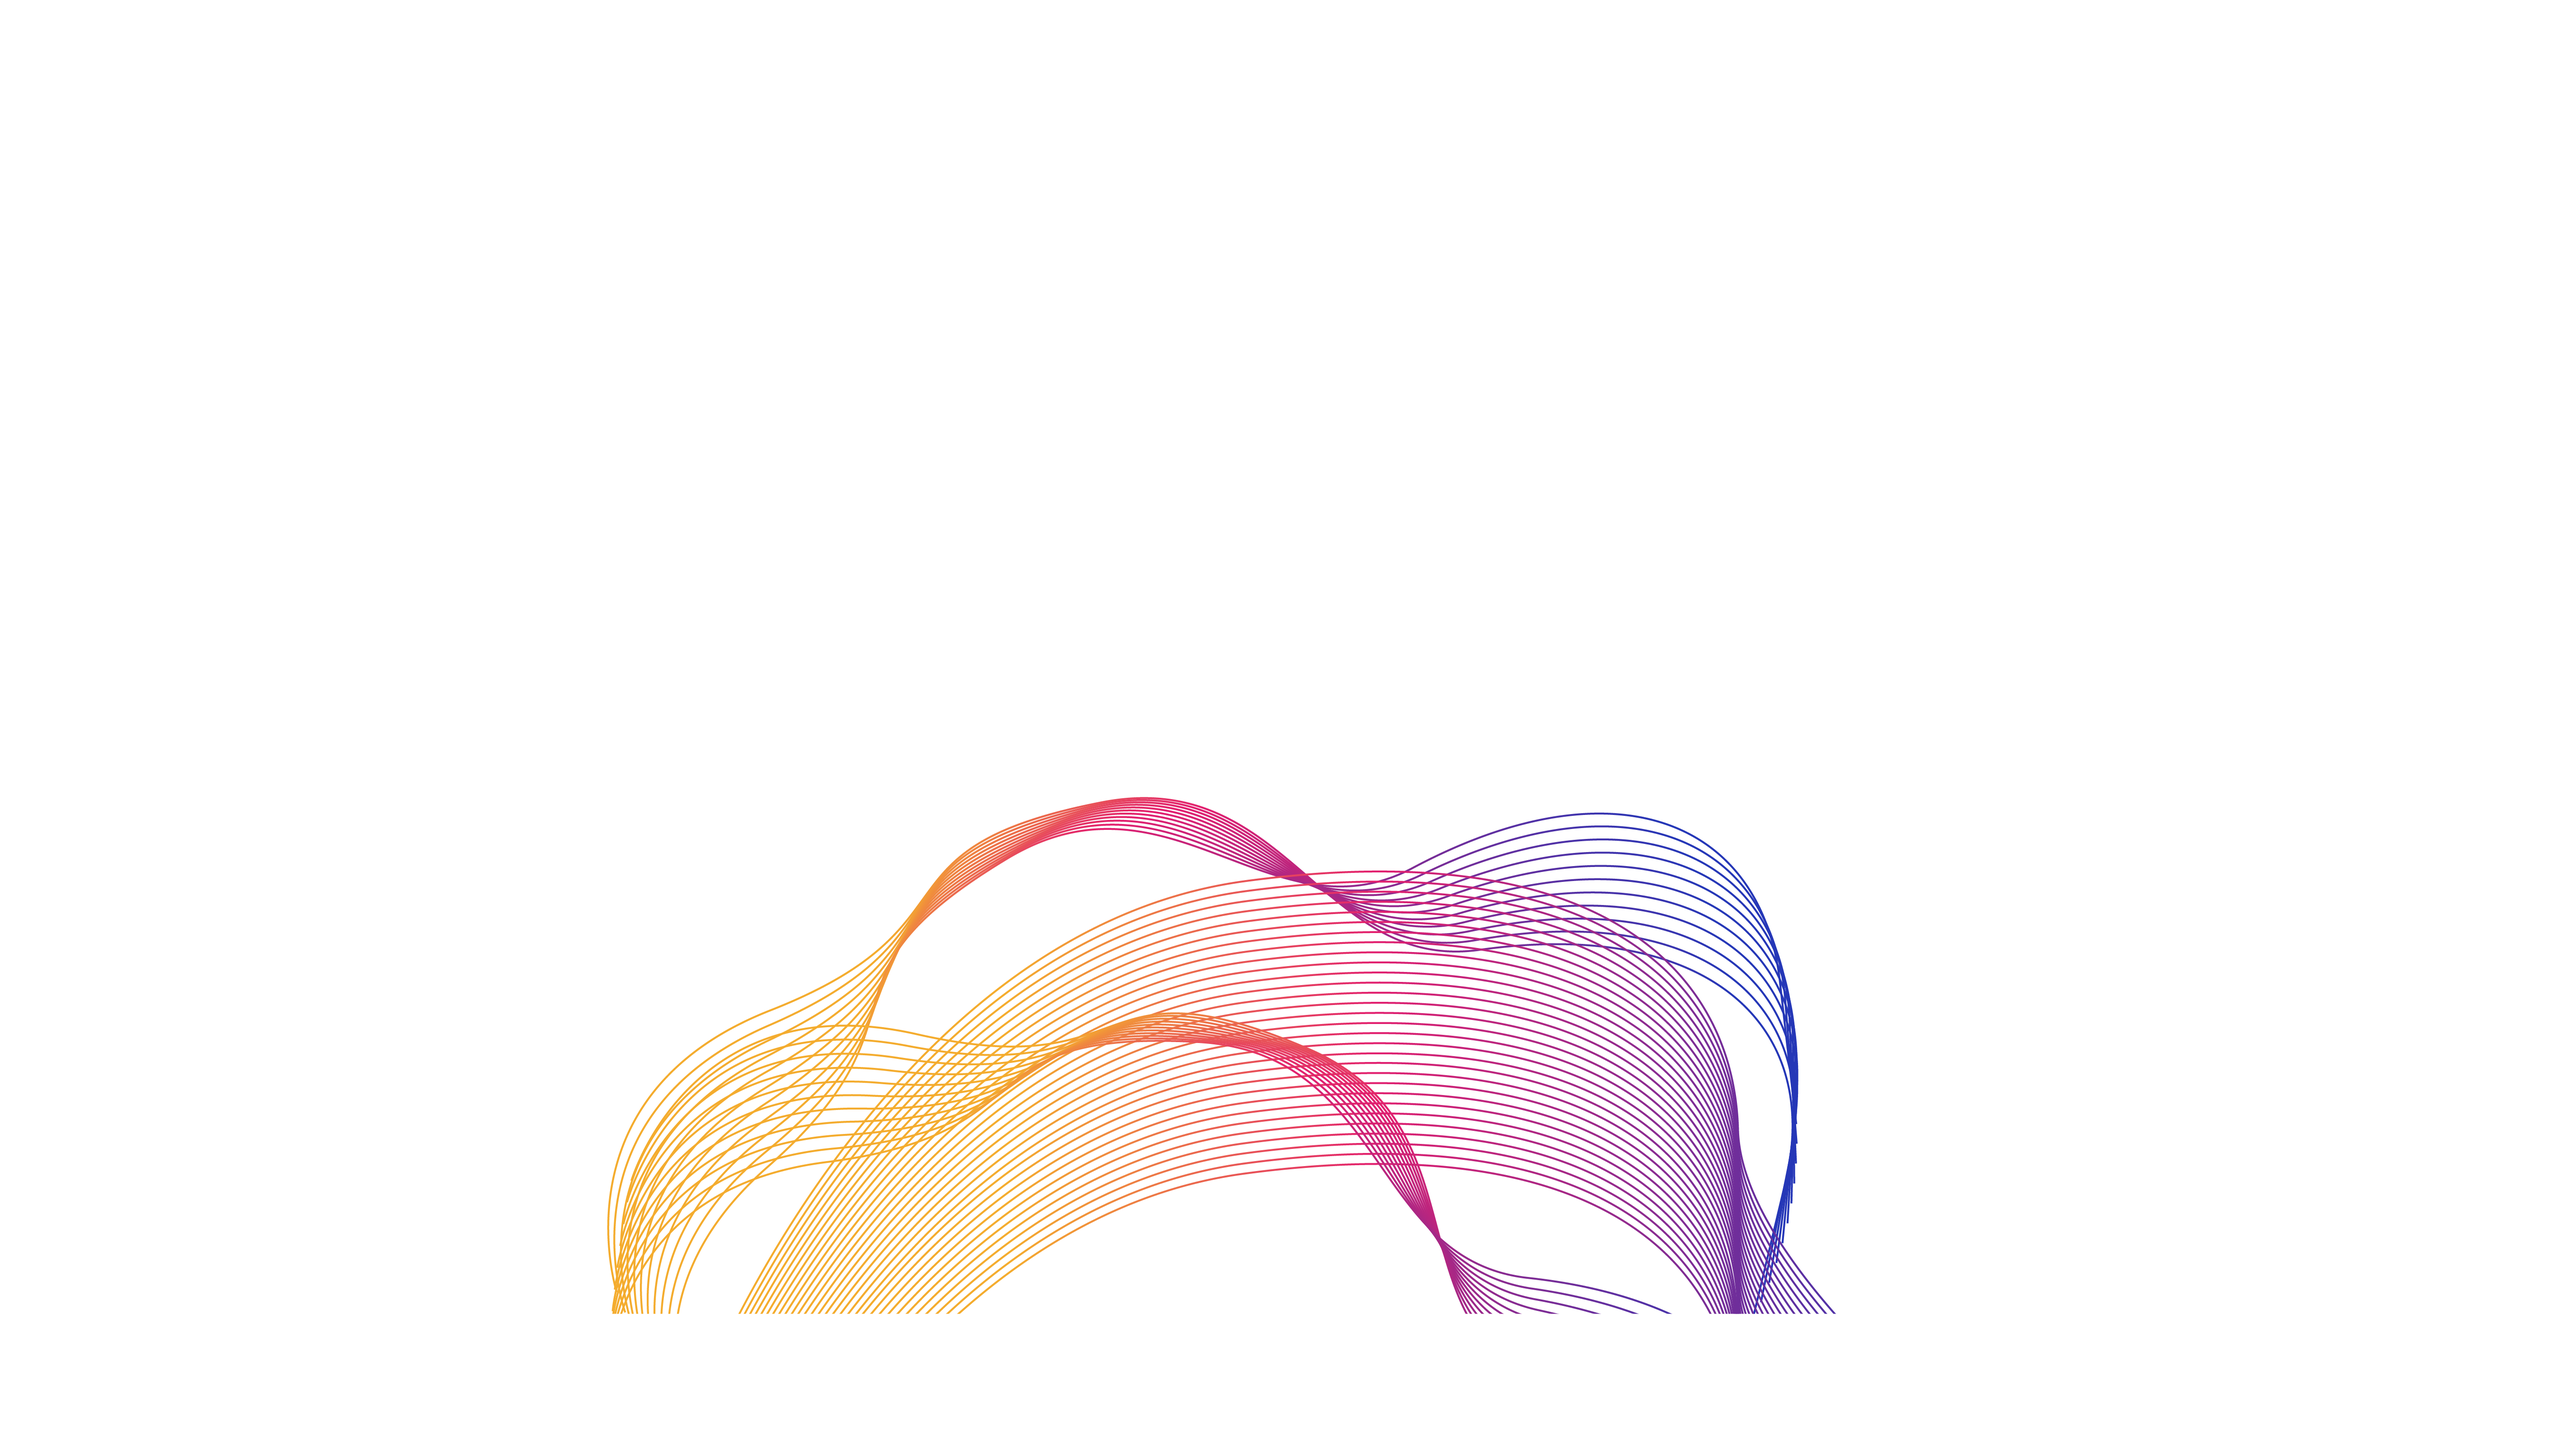
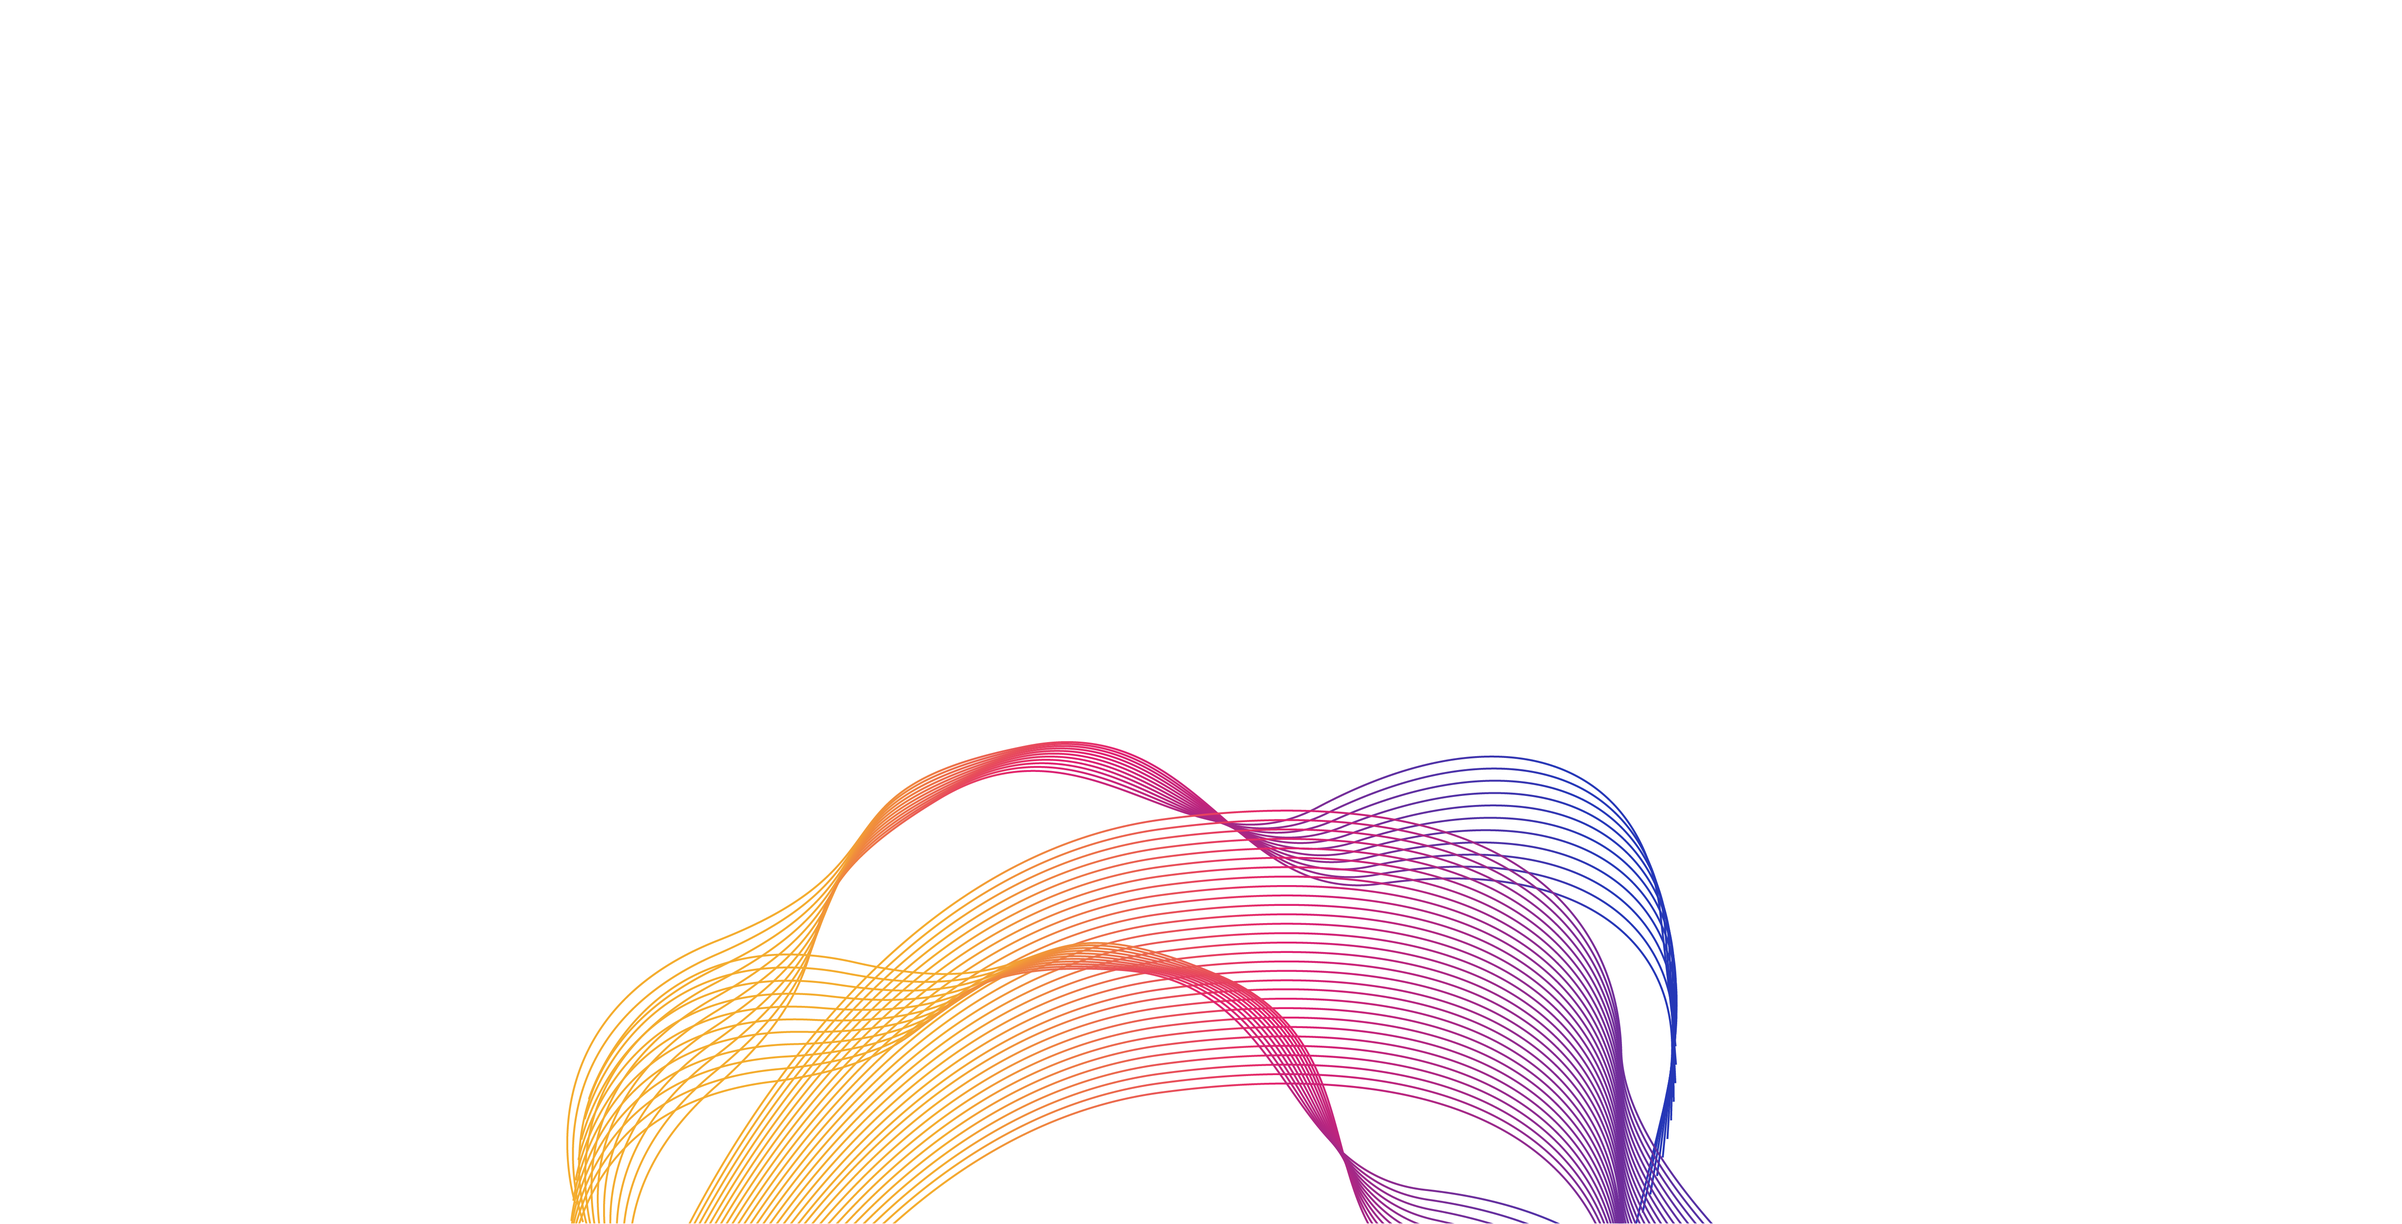
commit

Changed region(s): [[0.2176, 0.5279, 0.7148, 1.0]]

diff --git a/AbstractionWebsite 2/src/component/home-page-component/home-page-component.component.css b/AbstractionWebsite 2/src/component/home-page-component/home-page-component.component.css
@@ -34,7 +34,7 @@ a{
 
 #container {
     font-family: Inter, Roboto, 'Helvetica Neue', 'Arial Nova', 'Nimbus Sans', Arial, sans-serif;
-    height: 100vh;
+    height: 100%;
     width: 100%;
     margin: 0 auto;
     position: relative;
@@ -166,11 +166,14 @@ a{
 
 #HomePageDesign{
     position: absolute;
-    top: 5rem;
+    top: 6rem;
     left: 0;
-    width: 96.9%;
-    height: 96.9%;
+    width: calc(100% - 4rem);
+    height: auto;
     object-fit: cover;
+    z-index: -1;
+    
+    
 }
 
 #HomePageDesign2 {
@@ -190,6 +193,8 @@ a{
     display: flex; /* Enables flexbox */
     justify-content: center; /* Centers content horizontally */
     text-align: center; 
+    margin-top: 2rem;
+    border: 1px solid blue;
 }
 
 #HPGrayDesign{
@@ -197,6 +202,7 @@ a{
     height: auto;
     position: absolute;
     object-fit: cover;
+    justify-content: center; 
     left: -2em;
 }
 
@@ -206,9 +212,6 @@ a{
     position: absolute;
     object-fit: cover;
     left: 2em;
-
-
-
 }
 
 #mission {
@@ -228,122 +231,19 @@ a{
 #card-container {
     width: 100%;
     display: flex;
-    justify-content:center;
+    flex-wrap: wrap; /* Allow cards to wrap to the next line */
+    justify-content: center; /* Center the cards when wrapping */
     align-items: center;
     margin-top: 20rem;
-    padding: 5rem 0rem;
-    box-sizing: border-box;
-    gap: 2rem;
-}
-
-.card {
-    width: 300px;
-    height: 300px;
-    border-radius: 50px;
-    background-color: #f0f0f0;
-    box-shadow: 0 4px 8px rgba(0, 0, 0, 0.2);
-    display: flex; /* Use flexbox for card content layout */
-    flex-direction: column; /* Stack elements vertically */
-    justify-content: flex-start;
     padding: 2rem;
-    position: relative; /* Ensure the card is positioned relative */
-}
-
-.card img {
-    position: absolute; /* Position the image absolutely within the card */
-    bottom: 22px; 
-    right: 29px; 
-    margin: 0; 
-    transform: translate(10%, 10%); 
-    z-index: 1; /* Ensure the image is above the background color */
-    width: 300px; 
-    height: auto;
-}
-
-.card:hover {
-    transform: scale(1.05); /* Scale up the card on hover */
-    cursor: pointer; /* Change cursor to pointer */
-    transition: transform 0.3s ease-in-out; /* Smooth animation */
-}
-
-#community-project {
-    background-color: #E3EAFE;
-    position: relative;
-    z-index: 0; /* Ensure the background color is below the image */
-}
-
-#hackathon {
-    background-color: #FFE7CA;
-    position: relative;
-    z-index: 0; /* Ensure the background color is below the image */
-}
-
-#workshop {
-    background-color: #E3EAFE;
-    position: relative;
-    z-index: 0; /* Ensure the background color is below the image */
-}
-
-h2{
-    color: #2537B7;
-    font-family: "quasimoda", sans-serif;
-    font-weight: 600;
-    font-style: normal;
-    position: relative; /* Position h2 absolutely inside card */
-}
-
-#card-subtext {
-font-family: "quasimoda", sans-serif;
-font-weight: 300;
-font-size: 20px;
-font-style: normal;
-color: #5E5E5E;
-}
-
-#learnmore{
-color: #2537B7;
-font-family: "quasimoda", sans-serif;
-font-weight: 500;
-font-size: 20px;
-}
-
-.learnmore-container {
-display: flex; /* Enables flexbox layout */
-align-items: center; /* Vertically centers items */
-gap: 0.5rem; 
-margin-top: -1rem;
-height: 25px;
-}
-
-#learnarrow {
-width: 20px; 
-height: auto;
-}
-
-#card1design{
-position: absolute; 
-bottom: 22px; 
-right: 29px; 
-margin: 0; 
-transform: translate(10%, 10%); 
-z-index: 1; 
-width: 300px; 
-height: auto;
-}
-#card2design{
-position: absolute; 
-bottom: 19px; 
-right: 20px; 
-margin: 0; 
-transform: translate(10%, 10%); 
-z-index: 1; 
-width: 220px; 
-height: auto;
+    box-sizing: border-box;
+    gap: 10rem; /* Space between cards */
+    border: 1px solid blue;
 }
 
 /*Event*/
 
- .event-container {
+.event-container {
 width: 100%;
 display: flex;
 justify-content: space-between;
@@ -462,4 +362,12 @@ color: #7F7FE2;
     color: white;
     transition: 0.4s ease;
     cursor: pointer;
+}
+
+h2 {
+    color: #2537B7;
+    font-family: "quasimoda", sans-serif;
+    font-weight: 600;
+    font-style: normal;
+    position: relative;
 }

diff --git a/AbstractionWebsite 2/src/component/type-cards/type-cards.component.css b/AbstractionWebsite 2/src/component/type-cards/type-cards.component.css
@@ -2,17 +2,19 @@
 #card-container {
     width: 100%;
     display: flex;
-    justify-content: space-between;
+    flex-wrap: wrap; /* Allow cards to wrap to the next line */
+    justify-content: center; /* Center the cards when wrapping */
     align-items: center;
-    margin-top: 20rem;
-    padding: 5rem;
+    margin-top: 5rem;
+    padding: 2rem;
     box-sizing: border-box;
-    gap: 2rem;
+    gap: 2rem; /* Space between cards */
 }
 
 .card {
-    width: 350px;
-    height: 350px;
+    flex: 1 1 calc(30% - 2rem); /* Allow cards to resize and fit three per row */
+    max-width: 350px;
+    aspect-ratio: 1 / 1; /* Let height adjust with content */
     border-radius: 50px;
     background-color: #f0f0f0;
     box-shadow: 0 4px 8px rgba(0, 0, 0, 0.2);
@@ -23,34 +25,22 @@
     position: relative;
     text-decoration: none;
     transition: transform 0.15s ease-in-out;
-
 }
 
 .card img {
     position: absolute;
-    /* Position the image absolutely within the card */
-    bottom: 22px;
-    right: 29px;
+    bottom: 10px;
+    right: 10px;
     margin: 0;
     transform: translate(10%, 10%);
     z-index: 1;
-    /* Ensure the image is above the background color */
-    width: 300px;
+    width: 70%; /* Make image size responsive */
     height: auto;
 }
 
 .card:hover {
     transform: scale(1.05);
-    /* Scale up the card on hover */
     cursor: pointer;
-    /* Change cursor to pointer */
-
-}
-
-#card{
-    position: relative;
-    z-index: 0;
-    /* Ensure the background color is below the image */
 }
 
 h2 {
@@ -59,7 +49,6 @@ h2 {
     font-weight: 600;
     font-style: normal;
     position: relative;
-    /* Position h2 absolutely inside card */
 }
 
 #card-subtext {
@@ -70,33 +59,42 @@ h2 {
     color: #5E5E5E;
 }
 
-#learnmore {
+#learnmore{
     color: #2537B7;
     font-family: "quasimoda", sans-serif;
     font-weight: 500;
     font-size: 20px;
-    transition: text-decoration-color 0.15s ease-in-out;
-    text-decoration-color: transparent;
-}
-
-#learnmore:hover {
-    text-decoration: underline;
-    text-decoration-color: inherit;
-}
-
-.learnmore-container {
-    display: flex;
-    /* Enables flexbox layout */
-    align-items: center;
-    /* Vertically centers items */
-    gap: 0.5rem;
+    }
+    
+    .learnmore-container {
+    display: flex; /* Enables flexbox layout */
+    align-items: center; /* Vertically centers items */
+    gap: 0.5rem; 
     margin-top: -1rem;
     height: 25px;
+    }
+
+/* Media Queries for Smaller Screens */
+@media (max-width: 1024px) {
+    #card-container {
+        justify-content: space-around; /* Spread cards evenly */
+        gap: 1rem;
+    }
+    .card {
+        flex: 1 1 calc(45% - 2rem) /* Two cards per row */
+    }
 }
 
-#learnarrow {
-    width: 20px;
-    height: auto;
+@media (max-width: 768px) {
+    #card-container {
+        padding: 1rem;
+    }
+    .card {
+        flex: 1 1 100%; /* One card per row */
+    }
+    .card img {
+        width: 60%;
+    }
 }
 
 #card1design {

diff --git a/AbstractionWebsite 2/src/component/home-page-component/home-page-component.component.html b/AbstractionWebsite 2/src/component/home-page-component/home-page-component.component.html
@@ -39,7 +39,7 @@
       design="assets/card1design.png" backgroundcolor="#FFE7CA"></app-type-cards>
   </a>
 
-  <a href="/hackathon">
+  <a href="https://calvinhacks.org/">
     <app-type-cards title="Hackathon"
       subtitle="Join our annual 24 hour hackathon where you get the chance to gain $2000 + in prizes and credentials."
       design="assets/card2design.png" backgroundcolor="#E3EAFE"></app-type-cards>

diff --git a/AbstractionWebsite 2/src/component/type-cards/type-cards.component.html b/AbstractionWebsite 2/src/component/type-cards/type-cards.component.html
@@ -3,7 +3,6 @@
     <p id="card-subtext">{{subtitle()}} </p>
      <div class="learnmore-container">
         <p id="learnmore">Learn more</p>
-        <img id="learnarrow" src="assets/learnarrow.png" alt="" fetchpriority="high" />
     </div>
     <img id="card2design" src={{design()}} alt="" fetchpriority="high" />
 </div>
